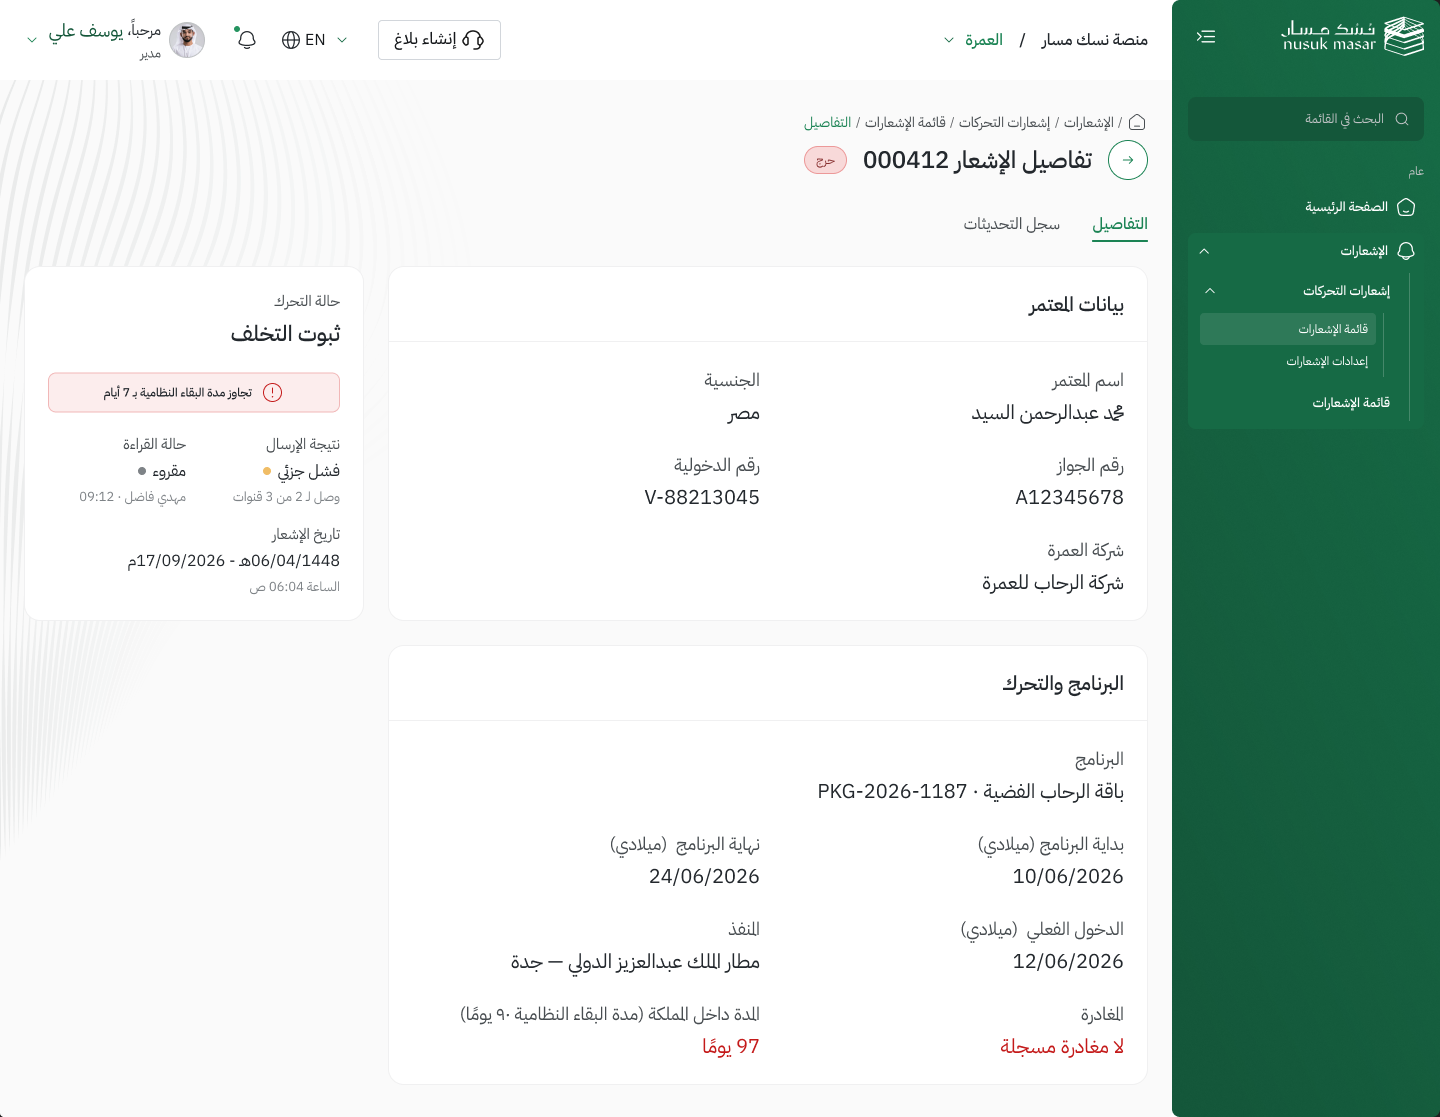
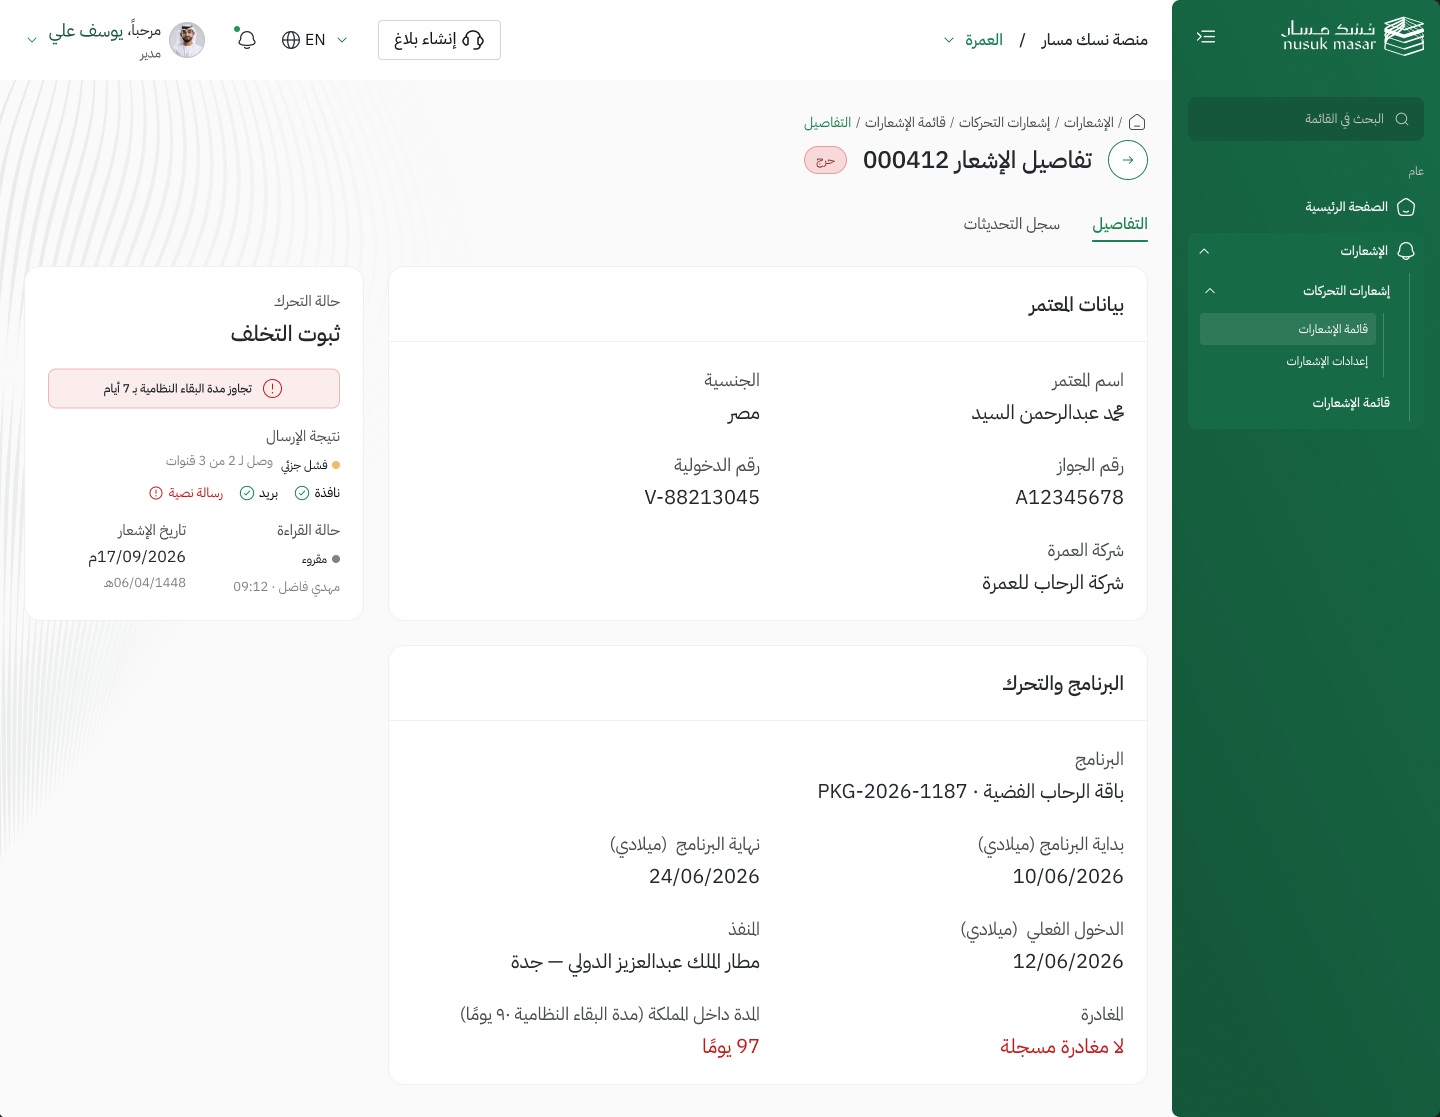
Details: explicit per-channel send result with DS sub-status chips and hover state
Claude-Session: https://claude.ai/code/session_01CyctH4WFBszWbBNkvnfQuz

Changed region(s): [[0.0625, 0.3348, 0.25, 0.5479]]

diff --git a/CLAUDE.md b/CLAUDE.md
@@ -182,6 +182,13 @@ All four libraries are published and reachable through `search_design_system`.
     neutral60, sub text Body/XS+ neutral60) · تاريخ الإشعار «06/04/1448هـ - 17/09/2026م» + «الساعة 06:04 ص» (same format as
     the side box). Title keeps only the الأهمية chip «حرج»; the «مقروء» chip is hidden here and in the timeline tab
     `4478:14096` (header kept identical). User: no side card on سجل التحديثات. Frame grown to 1117 (nav resized).
+    Send result made explicit (user picked option B of `mock-3-send-result-options.png`; A tooltip-only, C extra card):
+    side card now = حالة التحرك · alert · نتيجة الإرسال full width [DS `subtatus_chip` «فشل جزئي» (dot = status_dots frame
+    fill straw100) + «وصل لـ 2 من 3 قنوات»] + `channels` row (Icons `checkmark-circle-02` SA600 «نافذة» «بريد», `circle_warning`
+    ruby100 «رسالة نصية» in ruby text — both icons already used in the side box) · pair حالة القراءة (DS `subtatus_chip` «مقروء»,
+    dot neutral60, «مهدي فاضل · 09:12») | تاريخ الإشعار «17/09/2026م» + «06/04/1448هـ». The manual dots were replaced by the DS
+    chip (same one the title used). Height still 355 = بيانات المعتمر. Hover state = separate frame `4629:22024` below the
+    details frame: DS tooltip (desktop/arabic/down) «رسالة نصية — لم تصل» + recipient, reason, attempts, `touch-09` cursor.
     Open: list v2 shows 000412 as «غير مقروء» while details/timeline say read by مهدي فاضل 09:12 (pre-existing mismatch).
   - Next (not done): sub-status in حالة التحرك (needs the business list of sub-statuses), cards → pie charts (current cards
     contradict: totals 12 vs 7, critical 5/12 vs 2, read 7/12 vs 3).
